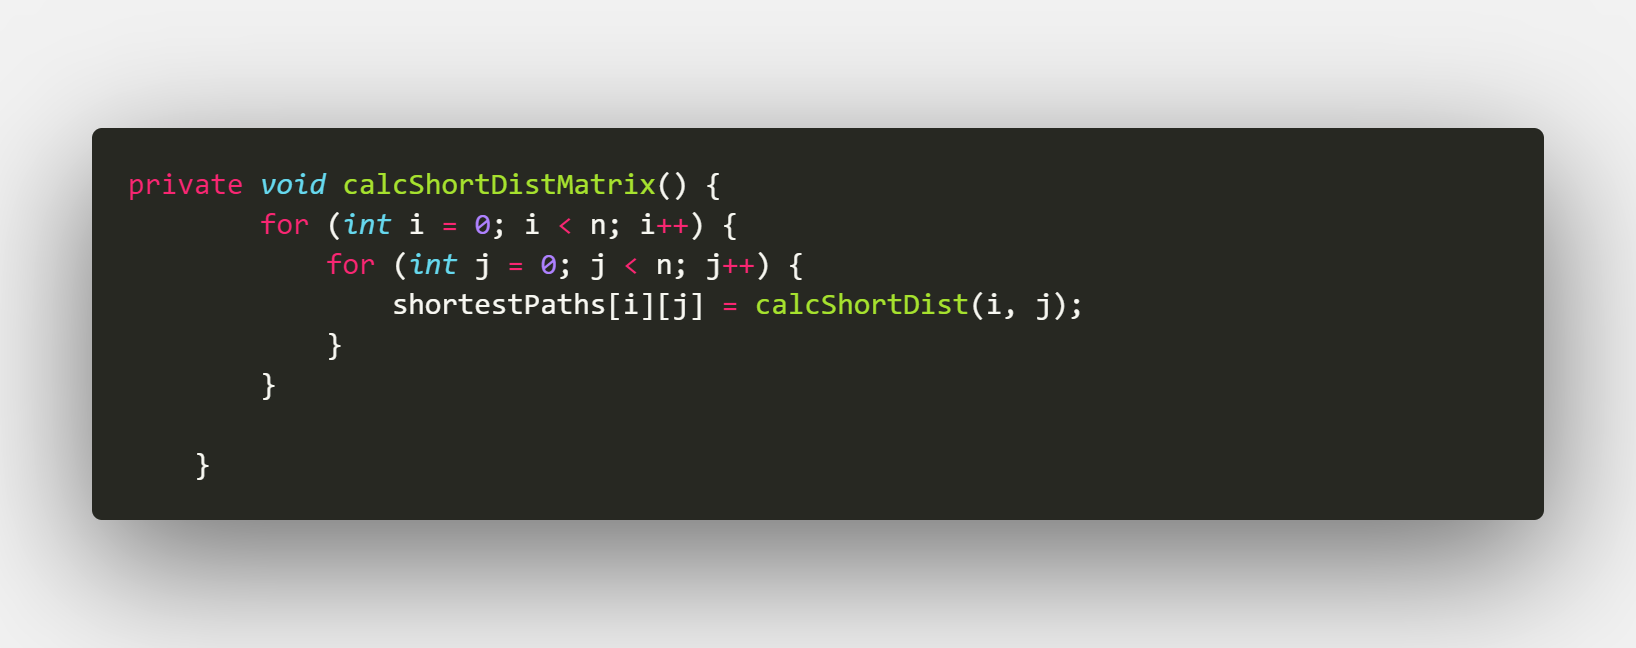
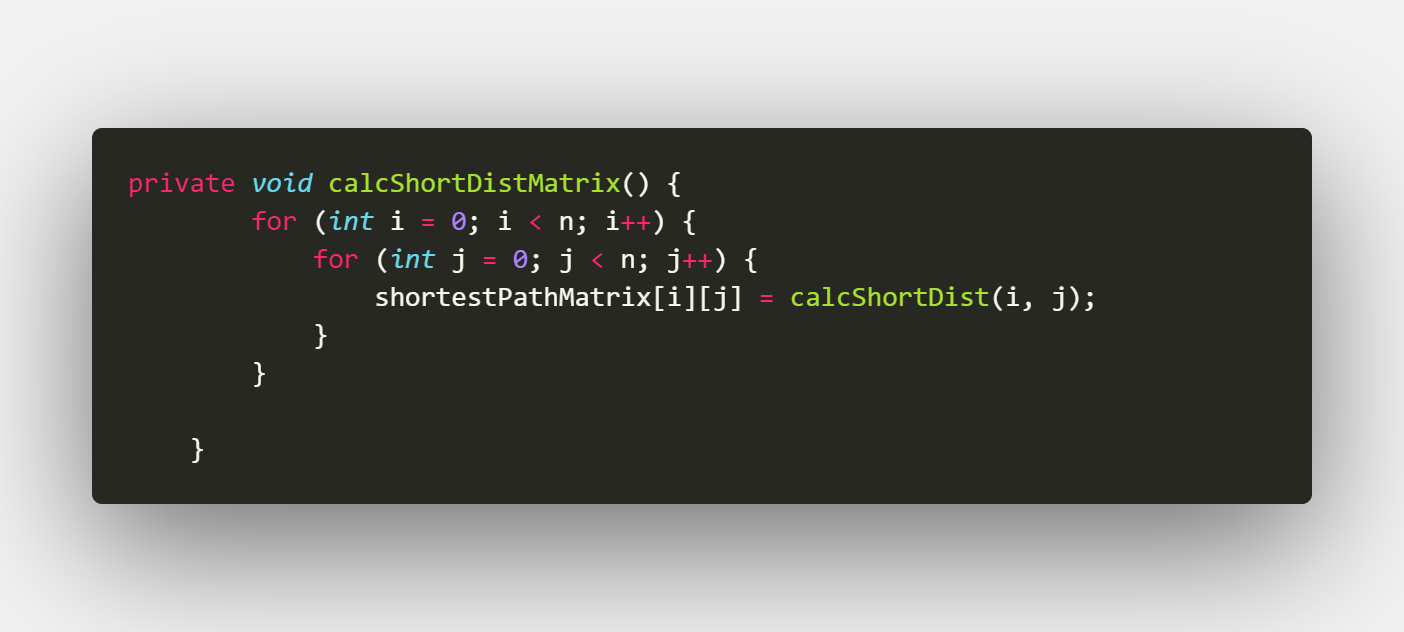
Clean up code and update README

diff --git a/FloydsAlgo.java b/FloydsAlgo.java
@@ -26,7 +26,9 @@ public class FloydsAlgo {
     }
 
     private boolean isValidMatrix(int[][] adjMatrix) {
-        return (adjMatrix != null) && !isJaggedArray(adjMatrix) && (adjMatrix.length == adjMatrix[0].length);
+        return (adjMatrix != null)
+                && !isJaggedArray(adjMatrix)
+                && (adjMatrix.length == adjMatrix[0].length);
         // Check subarrays are of same length as the number of subarrays.
     }
 
@@ -116,8 +118,6 @@ public class FloydsAlgo {
             }
             prevMatrix = pMatricies.getMatrix(k);
         }
-        pMatricies.cleanMatrices();
-        calcShortDistMatrix();
     }
 
     private int calcShortDist(int point1, int point2) {

diff --git a/README.md b/README.md
@@ -116,29 +116,33 @@ Another important design decision was to consolidate the intermediary matrices i
 <br />
 
 ### **Critical Functions**
+
 ---
+
 <br />
 
 ### **FloydsAlgo.java**
 
+![FloydsAlgo.java](./resources/code-calcPathMatrices.png)
 
-![FloydsAlgo.java](./resources/code-calcShortestPairs.png)
-
-*This function calculates the intermediary path matrices using the PairsMatrices data structure. The data is then sent to the function that calculates the shortest distance matrix.*
+_This function calculates the intermediary path matrices using the PairsMatrices data structure. The data is then sent to the function that calculates the shortest distance matrix._
 
 <br />
 
 ![FloydsAlgo.java](./resources/code-calcShortDistMatrix.png)
 
-*Calculate the shortest distance matrix.*
+_Calculate the shortest distance matrix._
 
 <br />
 
 ![FloydsAlgo.java](./resources/code-calcShortDist.png)
 
-*A utility function that calculates the shortest distance between two specific points.*
+_A utility function that calculates the shortest distance between two specific points._
 
+<br />
 
+![Check and run functions](./resources/code-checkAndRun-Functions.png)
+_The collection of functions responsible for checking if the given input is valid and then running the algorithm._
 
 <br />
 
@@ -153,21 +157,23 @@ Another important design decision was to consolidate the intermediary matrices i
 <br />
 
 ### **PairMatrices.java**
+
 ---
 
-![PairMatrices.java](./resources/code-pairsmatrices.png)
+![PairMatrices.java](./resources/code-PathMatrices-class.png)
 
-*The building block data structure that holds the intermediary matrices. The reasoning behind this class is to provide easier management and access between all the possible matrices generated.*
-
+_The building block data structure that holds the intermediary matrices. The reasoning behind this class is to provide easier management and access between all the possible matrices generated._
 
 <br />
 
 ### **How to Run:**
-Make sure that the input/output files are in the IO folder and the IO folder is in the same directory as Main.java. 
+
+Make sure that the input/output files are in the IO folder and the IO folder is in the same directory as Main.java.
 
     > javaC ReaderWriter.java PairsMatricies.java FloydsAlgo.java
-    
+
     > java Main.java
+
 <br />
 
 To view the whole code base please click [here](https://github.com/Chris0016/Floyds-Shortest-Path-Algorithm).
